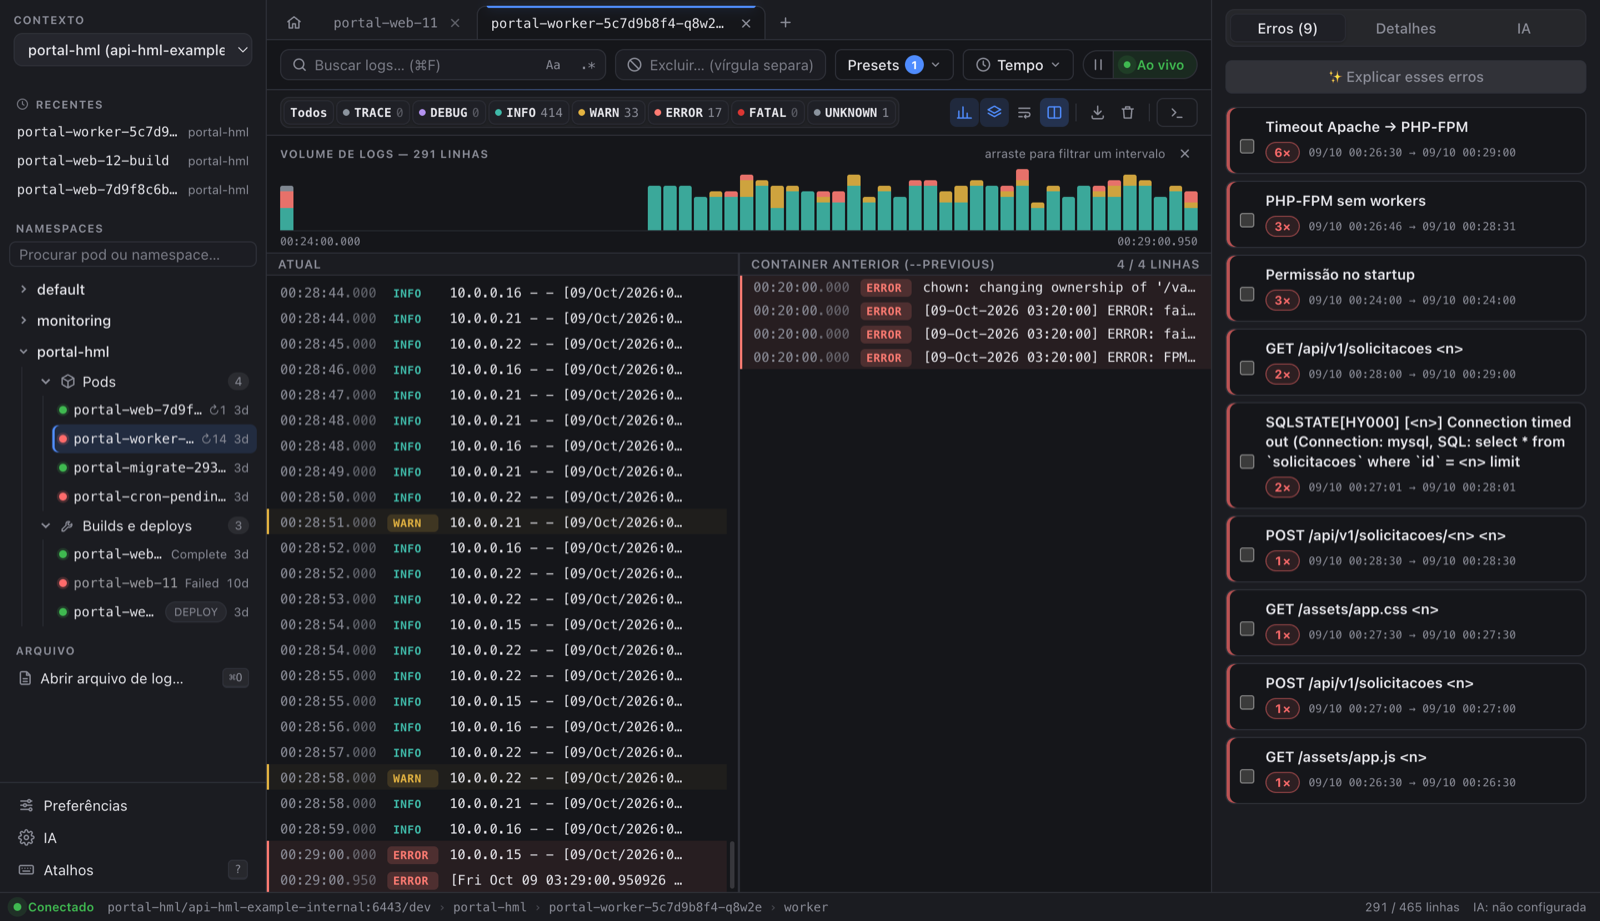
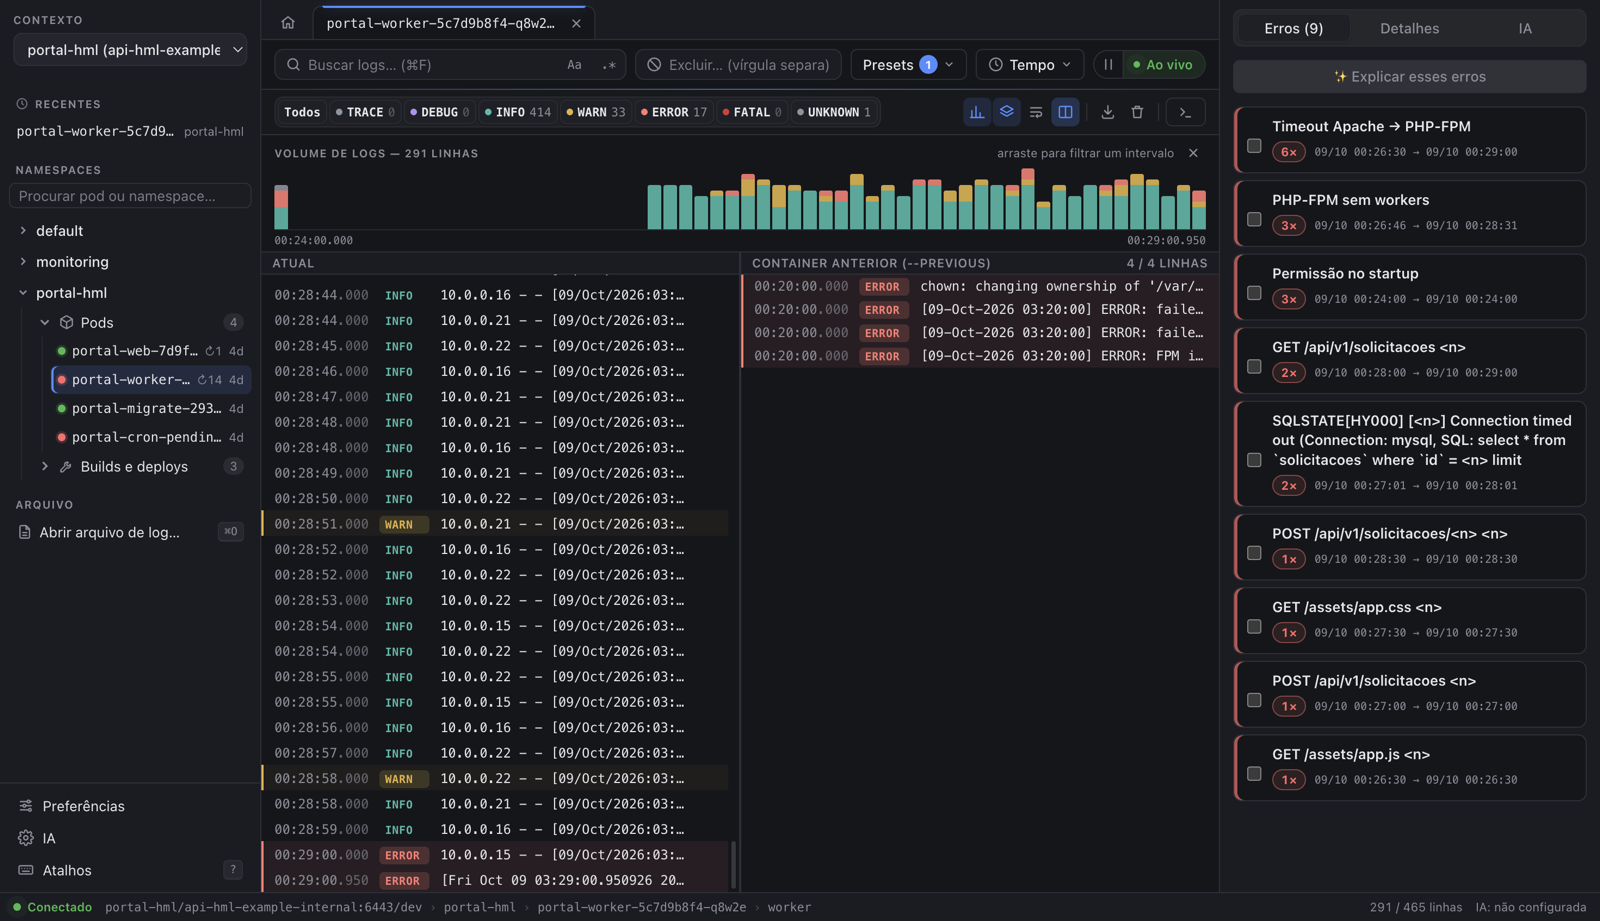
chore(release): 1.6.0
Version 1.6.0 and its CHANGELOG section; README screenshots redone by make screenshots (tests/screenshots, fake kubectl, English and Portuguese).

diff --git a/tests/screenshots/readme.spec.ts b/tests/screenshots/readme.spec.ts
@@ -1,0 +1,130 @@
+// README screenshots (docs/images/ in Portuguese, docs/images/en/ in English) with the fake kubectl and
+// fictional logs. Not part of the harness: run `make screenshots` on macOS (sips resizes to 1600×921).
+import { execFileSync } from 'node:child_process'
+import { mkdtempSync } from 'node:fs'
+import { tmpdir } from 'node:os'
+import { join } from 'node:path'
+import { _electron as electron, expect, test, type ElectronApplication, type Page } from '@playwright/test'
+import { translator, type Translate } from '../../src/ui/i18n/core'
+import { fakeKubectlEnv } from '../helpers/fake-kubectl'
+
+const SIZE = { width: 1600, height: 921 }
+const OUT = { en: 'docs/images/en', 'pt-BR': 'docs/images' } as const
+
+for (const lang of ['en', 'pt-BR'] as const) {
+  test.describe(lang, () => {
+    const t: Translate = translator(lang)
+    let app: ElectronApplication
+    let win: Page
+
+    test.beforeEach(async () => {
+      const fake = fakeKubectlEnv({ FAKE_KUBECTL_DELAY_MS: '0' })
+      app = await electron.launch({
+        args: ['.', `--lang=${lang}`],
+        env: { ...(fake.env as Record<string, string>), LOGDECK_USER_DATA: mkdtempSync(join(tmpdir(), 'logdeck-shots-')) },
+      })
+      win = await app.firstWindow()
+      await app.evaluate(({ BrowserWindow }, s) => BrowserWindow.getAllWindows()[0]!.setContentSize(s.width, s.height), SIZE)
+      await win.getByTestId('welcome').waitFor()
+      // The update question is asked once; answer it so it does not show in every picture.
+      await win.getByTestId('update-ask').getByRole('button', { name: t('upd.askNo') }).click()
+    })
+
+    test.afterEach(async () => {
+      await app.close()
+    })
+
+    const nav = () => win.getByRole('navigation', { name: t('sidebar.navigation') })
+
+    async function openPod(pod: RegExp, container?: string) {
+      await nav().getByRole('button', { name: 'portal-hml', exact: true }).click()
+      await nav().getByRole('button', { name: pod }).click()
+      if (container) await nav().getByRole('group', { name: t('sidebar.containers') }).getByRole('button', { name: container, exact: true }).click()
+    }
+
+    async function openWeb() {
+      await openPod(/portal-web/, 'httpd')
+      await expect(win.getByTestId('match-count')).toContainText('/ 465')
+    }
+
+    async function openBuilds() {
+      await nav().getByRole('button', { name: 'portal-hml', exact: true }).click()
+      await nav().getByRole('button', { name: new RegExp(t('sidebar.buildsFolder')) }).click()
+      return nav().getByRole('list', { name: t('sidebar.buildsFolder') })
+    }
+
+    /** Lets animations settle, then saves at 1600×921 (the window is captured at the screen's scale). */
+    async function shot(name: string) {
+      await win.waitForTimeout(500)
+      const file = join(OUT[lang], `${name}.png`)
+      await win.screenshot({ path: file })
+      execFileSync('sips', ['-z', String(SIZE.height), String(SIZE.width), file], { stdio: 'ignore' })
+    }
+
+    test('welcome', async () => {
+      await openWeb()
+      await win.getByRole('button', { name: t('tabs.home'), exact: true }).click()
+      await shot('welcome')
+    })
+
+    test('main', async () => {
+      await openWeb()
+      await shot('main')
+    })
+
+    test('details', async () => {
+      await openWeb()
+      await win.getByLabel(t('top.search')).fill('AH01075')
+      await win.getByTestId('log-row').first().click()
+      await expect(win.getByTestId('log-details')).toBeVisible()
+      await shot('details')
+    })
+
+    test('errors', async () => {
+      await openWeb()
+      await win.getByTestId('error-group').filter({ hasText: t('sig.apache-phpfpm-timeout') }).getByRole('button').click()
+      await shot('errors')
+    })
+
+    test('build-log', async () => {
+      const builds = await openBuilds()
+      await builds.getByRole('button', { name: /portal-web-12/ }).click()
+      await expect(win.locator('.statusbar')).toContainText('sti-build')
+      await expect(win.getByTestId('log-row').filter({ hasText: 'Push successful' })).toHaveCount(1)
+      await shot('build-log')
+    })
+
+    test('build-details', async () => {
+      const builds = await openBuilds()
+      await builds.getByRole('button', { name: /portal-web-11/ }).click()
+      await shot('build-details')
+    })
+
+    test('compare', async () => {
+      await openPod(/portal-worker/)
+      await win.getByRole('button', { name: t('lv.compare') }).click()
+      await expect(win.getByTestId('previous-pane').getByTestId('log-row').first()).toBeVisible()
+      await shot('compare')
+    })
+
+    test('theme-light', async () => {
+      await win.getByRole('button', { name: t('sidebar.preferences'), exact: true }).click()
+      const prefs = win.getByRole('dialog', { name: t('pref.title') })
+      await prefs.getByRole('radio', { name: t('theme.claro') }).click()
+      await prefs.getByRole('button', { name: t('common.close') }).click()
+      await openWeb()
+      await shot('theme-light')
+    })
+
+    test('preferences', async () => {
+      await win.getByRole('button', { name: t('sidebar.preferences'), exact: true }).click()
+      await shot('preferences')
+    })
+
+    test('shortcuts', async () => {
+      await win.keyboard.press('?')
+      await expect(win.getByRole('dialog', { name: t('keys.title') })).toBeVisible()
+      await shot('shortcuts')
+    })
+  })
+}

diff --git a/playwright.screenshots.config.ts b/playwright.screenshots.config.ts
@@ -1,0 +1,5 @@
+// `make screenshots`: the README pictures (tests/screenshots). Same fakes and safety net as the E2E config.
+import { defineConfig } from '@playwright/test'
+import base from './playwright.config'
+
+export default defineConfig({ ...base, testDir: 'tests/screenshots' })

diff --git a/CHANGELOG.pt-BR.md b/CHANGELOG.pt-BR.md
@@ -6,18 +6,20 @@ Formato baseado em [Keep a Changelog](https://keepachangelog.com/pt-BR/1.1.0/). 
 
 ## [Não lançado]
 
-- README: situação da assinatura de código atualizada. A SignPath Foundation recusou o primeiro pedido (projeto novo demais); as versões seguem sem assinatura, e vamos pedir de novo quando o projeto tiver mais uso.
+## [1.6.0] — 13/10/2026
+
 - **Pacote da Microsoft Store (appx/MSIX):** `npm run release:store` gera o pacote (`build.appx` com a identidade do Partner Center, logos da Store em `build/appx/` feitos por `scripts/build-appx-assets.sh`, que o `make icon` também roda). O CI gera o pacote em todo PR e em cada release como artefato do workflow (nunca como arquivo da release: a Store assina na publicação). Passos de teste e envio em `docs/microsoft-store.md`.
 - A cópia da Microsoft Store nunca consulta o GitHub atrás de versão nova: a Store atualiza o app (`src/platform/distribution.ts`).
 - **Sem kubectl? A tela inicial diz como instalar:** um cartão destacado com o comando de instalação do sistema (winget, brew, snap), botão **Copiar** e **Verificar de novo**, que acha o kubectl sem reiniciar o app; enquanto isso, já dá para abrir arquivos de log. O README também diz como instalar o `oc`.
 - **O Início é a casinha:** o app abre na tela inicial com a casinha acesa e sem nenhuma aba; abas são só para pods, arquivos e builds. A casinha mostra a tela inicial e deixa as abas abertas rodando (antes ela esvaziava a aba atual e parava o log). O botão "+" saiu: ⌘/Ctrl+clique ou clique do meio num pod abre em aba nova.
-- Correção: um plugin de login ausente (`oc`, `aws`, `gke-gcloud-auth-plugin`, `kubelogin`…) aparecia como "Recurso não encontrado (o pod pode ter sido removido)". Agora a mensagem diz qual plugin falta e pede para instalar ou conferir o PATH.
-- "Copiar para chamado" agora se chama **Copiar com detalhes** (pod, horários em UTC, nível e a linha, com segredos mascarados).
 - **Copiar com máscara:** os Detalhes têm a opção "Mascarar dados sensíveis" para o **Copiar**: esconde senhas, tokens, chaves, e-mails e IPs internos (10.x, 172.16–31.x, 192.168.x) na linha e no stack trace copiados. Desligada por padrão e lembrada nesta máquina; o log na tela não muda.
+- "Copiar para chamado" agora se chama **Copiar com detalhes** (pod, horários em UTC, nível e a linha, com segredos mascarados).
 - **Preferências mais largas:** duas colunas quando há espaço (temas à esquerda; idioma, atualizações e Sobre à direita), e tudo aparece sem rolar na janela padrão; uma coluna em janela estreita.
-
+- Correção: um plugin de login ausente (`oc`, `aws`, `gke-gcloud-auth-plugin`, `kubelogin`…) aparecia como "Recurso não encontrado (o pod pode ter sido removido)". Agora a mensagem diz qual plugin falta e pede para instalar ou conferir o PATH.
 - **CHANGELOG em inglês** (`CHANGELOG.md`), com a versão em português em `CHANGELOG.pt-BR.md`.
 - **Notas da release com as mudanças:** cada release do GitHub mostra a seção da sua versão no `CHANGELOG.md` (`scripts/release-notes.mjs`) em vez de "veja o CHANGELOG", mais o link da política de assinatura; a release falha se a versão não tiver seção.
+- README: situação da assinatura de código atualizada. A SignPath Foundation recusou o primeiro pedido (projeto novo demais); as versões seguem sem assinatura, e vamos pedir de novo quando o projeto tiver mais uso.
+- Capturas do README refeitas pelo `make screenshots` (`tests/screenshots`, kubectl falso e logs fictícios, em inglês e português).
 
 ## [1.5.0] — 12/10/2026
 

diff --git a/CHANGELOG.md b/CHANGELOG.md
@@ -6,18 +6,20 @@ Based on [Keep a Changelog](https://keepachangelog.com/en/1.1.0/). One entry per
 
 ## [Unreleased]
 
-- README: code signing status updated. The SignPath Foundation declined the first application (the project is too new); releases stay unsigned, and we will reapply once the project has wider adoption.
+## [1.6.0] — 2026-10-13
+
 - **Microsoft Store package (appx/MSIX):** `npm run release:store` builds it (`build.appx` with the Partner Center identity, Store logos in `build/appx/` made by `scripts/build-appx-assets.sh`, also run by `make icon`). CI builds it on every PR and on each release as a workflow artifact (never a release asset: the Store signs it on submission). Testing and submission steps in `docs/microsoft-store.md`.
 - The Microsoft Store copy never checks GitHub for new versions: the Store updates it (`src/platform/distribution.ts`).
 - **No kubectl? The welcome screen says how to install it:** a highlighted card with the install command for the OS (winget, brew, snap), a **Copy** button and **Check again**, which finds kubectl without restarting the app; meanwhile log files can already be opened. README lists how to install `oc` too.
 - **Home is the house button:** the app opens on the home screen with the button lit and no tab; tabs are only for pods, files and builds. The house shows the home screen and leaves the open tabs running (it used to empty the current tab and stop its log). The "+" button is gone: ⌘/Ctrl-click or middle-click a pod opens it in a new tab.
-- Fix: a missing login plugin (`oc`, `aws`, `gke-gcloud-auth-plugin`, `kubelogin`…) showed "Resource not found (the pod may have been removed)". It now names the plugin and says to install it or check the PATH.
-- "Copy for ticket" is now **Copy with details** (pod, UTC times, level and the line, secrets masked).
 - **Copy with masking:** Details has a "Mask sensitive data" option for **Copy**: it hides passwords, tokens, keys, emails and internal IPs (10.x, 172.16–31.x, 192.168.x) in the copied line and stack trace. Off by default, remembered on this machine; the log on screen does not change.
+- "Copy for ticket" is now **Copy with details** (pod, UTC times, level and the line, secrets masked).
 - **Wider Preferences:** two columns when there is room (themes on the left; language, updates and About on the right), so everything shows without scrolling in the default window; one column in narrow windows.
-
+- Fix: a missing login plugin (`oc`, `aws`, `gke-gcloud-auth-plugin`, `kubelogin`…) showed "Resource not found (the pod may have been removed)". It now names the plugin and says to install it or check the PATH.
 - **CHANGELOG in English** (`CHANGELOG.md`), with the Portuguese version in `CHANGELOG.pt-BR.md`.
 - **Release notes with the changes:** each GitHub Release shows its version's section from `CHANGELOG.md` (`scripts/release-notes.mjs`) instead of "see the CHANGELOG", plus the code signing policy link; the release fails if the version has no section.
+- README: code signing status updated. The SignPath Foundation declined the first application (the project is too new); releases stay unsigned, and we will reapply once the project has wider adoption.
+- README screenshots redone by `make screenshots` (`tests/screenshots`, fake kubectl and fictional logs, English and Portuguese).
 
 ## [1.5.0] — 2026-10-12
 

diff --git a/AGENTS.md b/AGENTS.md
@@ -43,3 +43,4 @@ Vale para qualquer IA que mexa neste repositório (Claude Code, Codex, Copilot e
 | `make test` | testes unitários e de integração |
 | `make dev` | abre o app em modo desenvolvimento |
 | `make harness-integration` | testes contra cluster `kind` local (manual, nunca no CI) |
+| `make screenshots` | refaz as capturas do README (`docs/images/` e `docs/images/en/`) com o kubectl falso; só no macOS |
